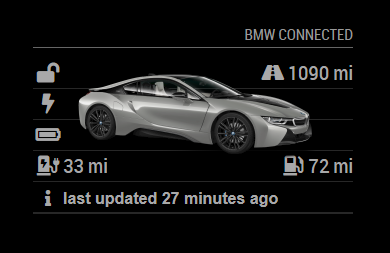
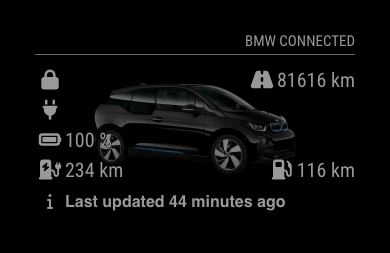
Mileage in kilomerters fix, car image changes and minor fixes

Changed region(s): [[0.0923, 0.249, 0.9231, 0.7194], [0.0923, 0.747, 0.9231, 0.8577], [0.0923, 0.1107, 0.9231, 0.2213]]

diff --git a/MMM-BMWConnected.js b/MMM-BMWConnected.js
@@ -3,6 +3,7 @@ Module.register("MMM-BMWConnected", {
     apiBase: "www.bmw-connecteddrive.co.uk",
     refresh: 15,
     vehicleAngle: 300,
+    vehicleOpacity: 0.75,
     distance: "miles",
     debug: false
   },
@@ -82,6 +83,17 @@ Module.register("MMM-BMWConnected", {
     var carContainer = document.createElement("div");
     carContainer.classList.add("bmw-container");
 
+    carContainer = document.createElement("div");
+    carContainer.classList.add("bmw-container");
+    var imageContainer = document.createElement("span");
+    var imageObject = document.createElement("img");
+    imageObject.setAttribute('src', info.imageUrl);
+    imageObject.setAttribute('style', 'opacity: ' + this.config.vehicleOpacity + ';');
+    imageContainer.appendChild(imageObject);
+    carContainer.appendChild(imageContainer);
+    
+    wrapper.appendChild(carContainer);
+
     var locked = document.createElement("span");
     locked.classList.add("locked");
 	  var lockInfo = info.doorLock.toLowerCase();
@@ -96,6 +108,13 @@ Module.register("MMM-BMWConnected", {
     mileage.classList.add("mileage");
     if (this.config.showMileage) {
       mileage.appendChild(this.faIconFactory("fa-road"));
+      if(distanceSuffix != info.mileage) {
+        if(distanceSuffix == 'km') {
+          info.mileage = Math.floor(info.mileage * 1.60934);
+        } else {
+          info.mileage = Math.floor(info.mileage * 0.621371);
+        }  
+      }  
       mileage.appendChild(document.createTextNode(info.mileage + " " + distanceSuffix));
     } else {
       mileage.appendChild(document.createTextNode("\u00a0"));
@@ -184,17 +203,6 @@ Module.register("MMM-BMWConnected", {
     carContainer.appendChild(updated);
     wrapper.appendChild(carContainer);
     
-    carContainer = document.createElement("div");
-    carContainer.classList.add("bmw-container");
-    var imageContainer = document.createElement("span");
-    var imageObject = document.createElement("img");
-    imageObject.setAttribute('src', info.imageUrl);
-    imageObject.setAttribute('style', 'opacity: ' + this.config.vehicleOpacity + ';');
-    imageContainer.appendChild(imageObject);
-    carContainer.appendChild(imageContainer);
-    
-    wrapper.appendChild(carContainer);
-
     return wrapper;
   }
 });

diff --git a/node_helper.js b/node_helper.js
@@ -52,7 +52,8 @@ module.exports = NodeHelper.create({
 						fuelRange: properties.combustionRange.distance.value,
 						electricRange: properties.electricRange.distance.value,
 						chargingLevelHv: properties.chargingState.chargePercentage,
-						mileage: attributes.currentMileage.formattedMileage,
+						mileage: attributes.currentMileage.mileage,
+						mileageUnits: attributes.currentMileage.units,
 						connectorStatus: attributes.checkControlMessagesGeneralState,
 						vin: vin,
 						imageUrl: null,

diff --git a/MMM-BMWConnected.css b/MMM-BMWConnected.css
@@ -13,7 +13,7 @@
 .MMM-BMWConnected .bmw-container img {
   position: absolute;
   width: 320px;
-  top: -215px;
+  top: -45px;
   left: -5px;
 }
 

diff --git a/README.md b/README.md
@@ -48,11 +48,11 @@ The module has a few configuration options:
       <td><code>email</code></td>
       <td>Your username or email for the BMW Connected Drive platform.<br /><br /><strong>Default: </strong><code>undefined</code></td>
     </tr>
-        <tr>
+    <tr>
       <td><code>password</code></td>
       <td>Your password for the BMW Connected Drive platform.<br /><br /><strong>Default: </strong><code>undefined</code></td>
     </tr>
-            <tr>
+    <tr>
       <td><code>apiBase</code></td>
       <td>The location of the base API URL for your region.<br /><br /><strong>Default: </strong><code>www.bmw-connecteddrive.co.uk</code></td>
     </tr>
@@ -60,11 +60,15 @@ The module has a few configuration options:
       <td><code>refresh</code></td>
       <td>How often to refresh the data in minutes. <br /><br /><strong>Default: </strong><code>15</code> </td>
     </tr>
-        <tr>
+    <tr>
       <td><code>vehicleAngle</code></td>
       <td>The angle of rotation for the car image. <br /><br /><strong>Default: </strong><code>300</code><br/>Between 0 and 350 in increments of 10.</td>
     </tr>
-            <tr>
+    <tr>
+      <td><code>vehicleOpacity</code></td>
+      <td>The opacity of the car image. <br /><br /><strong>Default: </strong><code>0.75</code><br/>Between 0 and 1.</td>
+    </tr>
+    <tr>
       <td><code>distance</code></td>
       <td>The unit of distance used for mileage and range. <br /><br /><strong>Default: </strong><code>miles</code><br/>Can be: miles or km.</td>
     </tr>
@@ -93,6 +97,14 @@ The module has a few configuration options:
 
 ## Thanks
 
+Biggest thanks to [Howard Durdle](https://github.com/hdurdle) for writing the initial version and maintaining the module for several years.
+
 Hat tip to [Nils Schneider](https://github.com/Lyve1981/BMW-ConnectedDrive-JSON-Wrapper) for the library code for performing the BMW authentication dance.
 
 Thanks to [Eugen](https://github.com/yfre/MMM-BMWConnected) for fixing the connectivity issues.
+
+## Changelog
+
+**2022-06-13** Fixed mileage into kilometers, moved the car image to background, and added information about `vehicleOpacity` config option. Changed the example image.
+
+**2022-05-30** Detached from previous versions.
